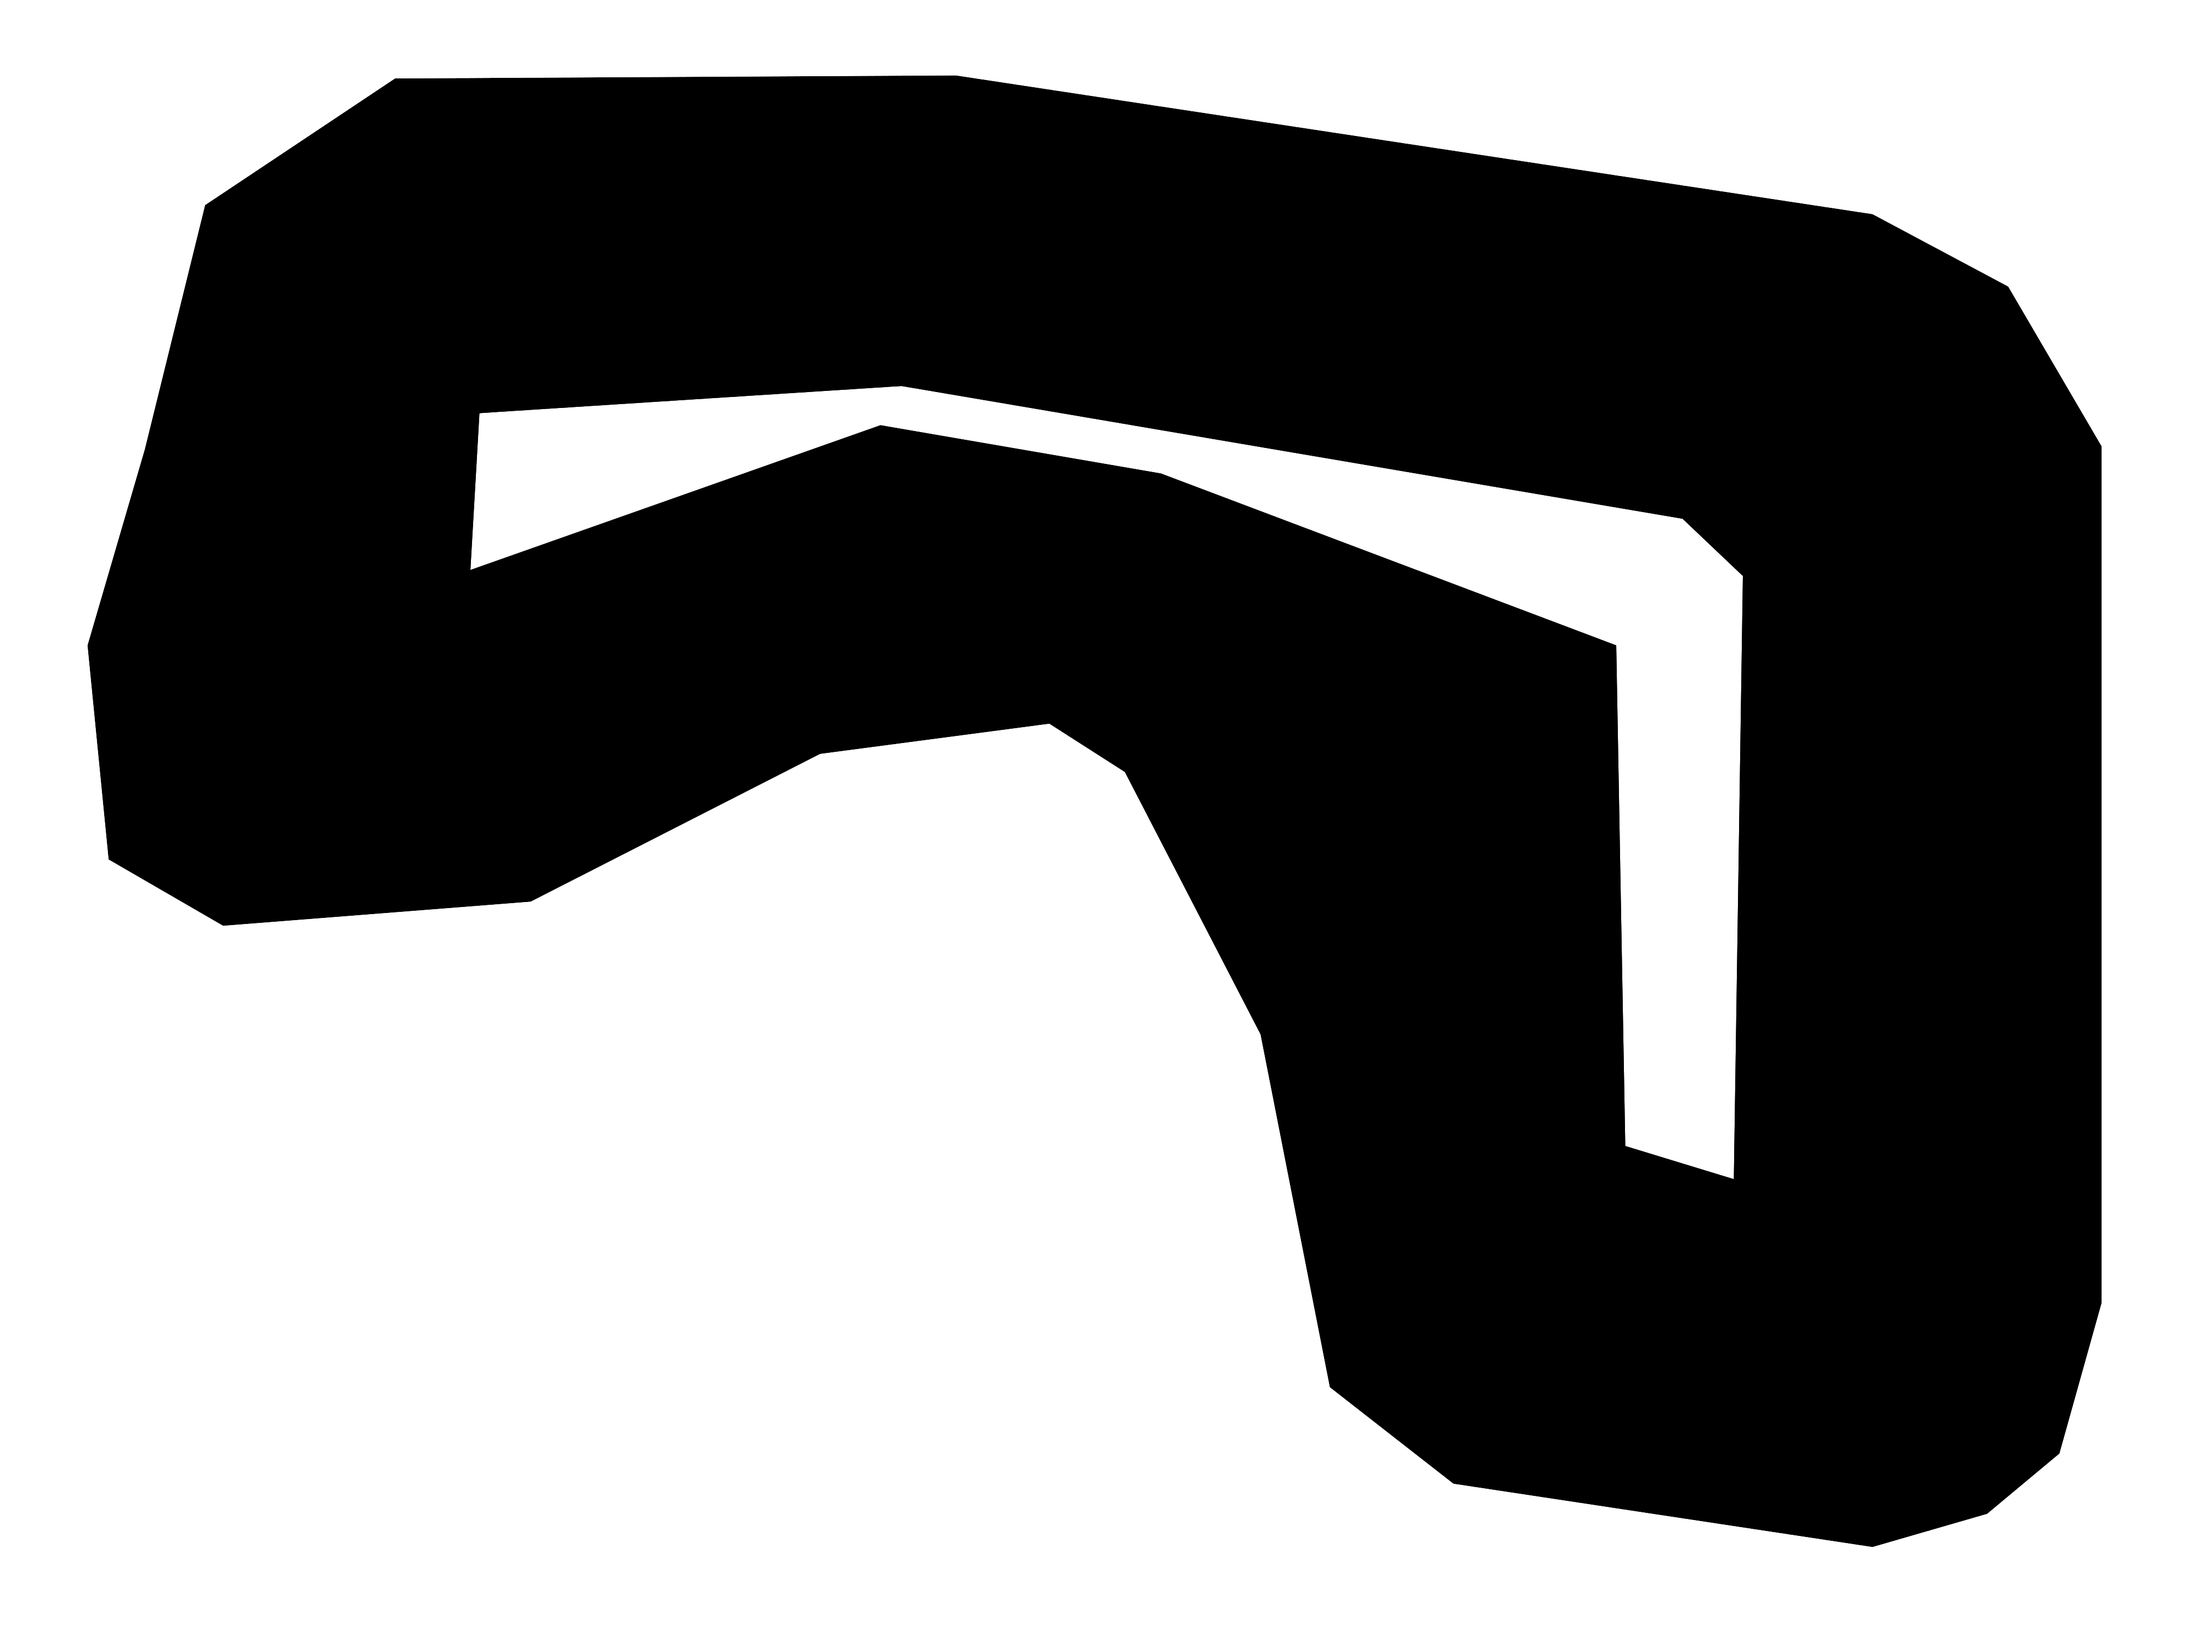
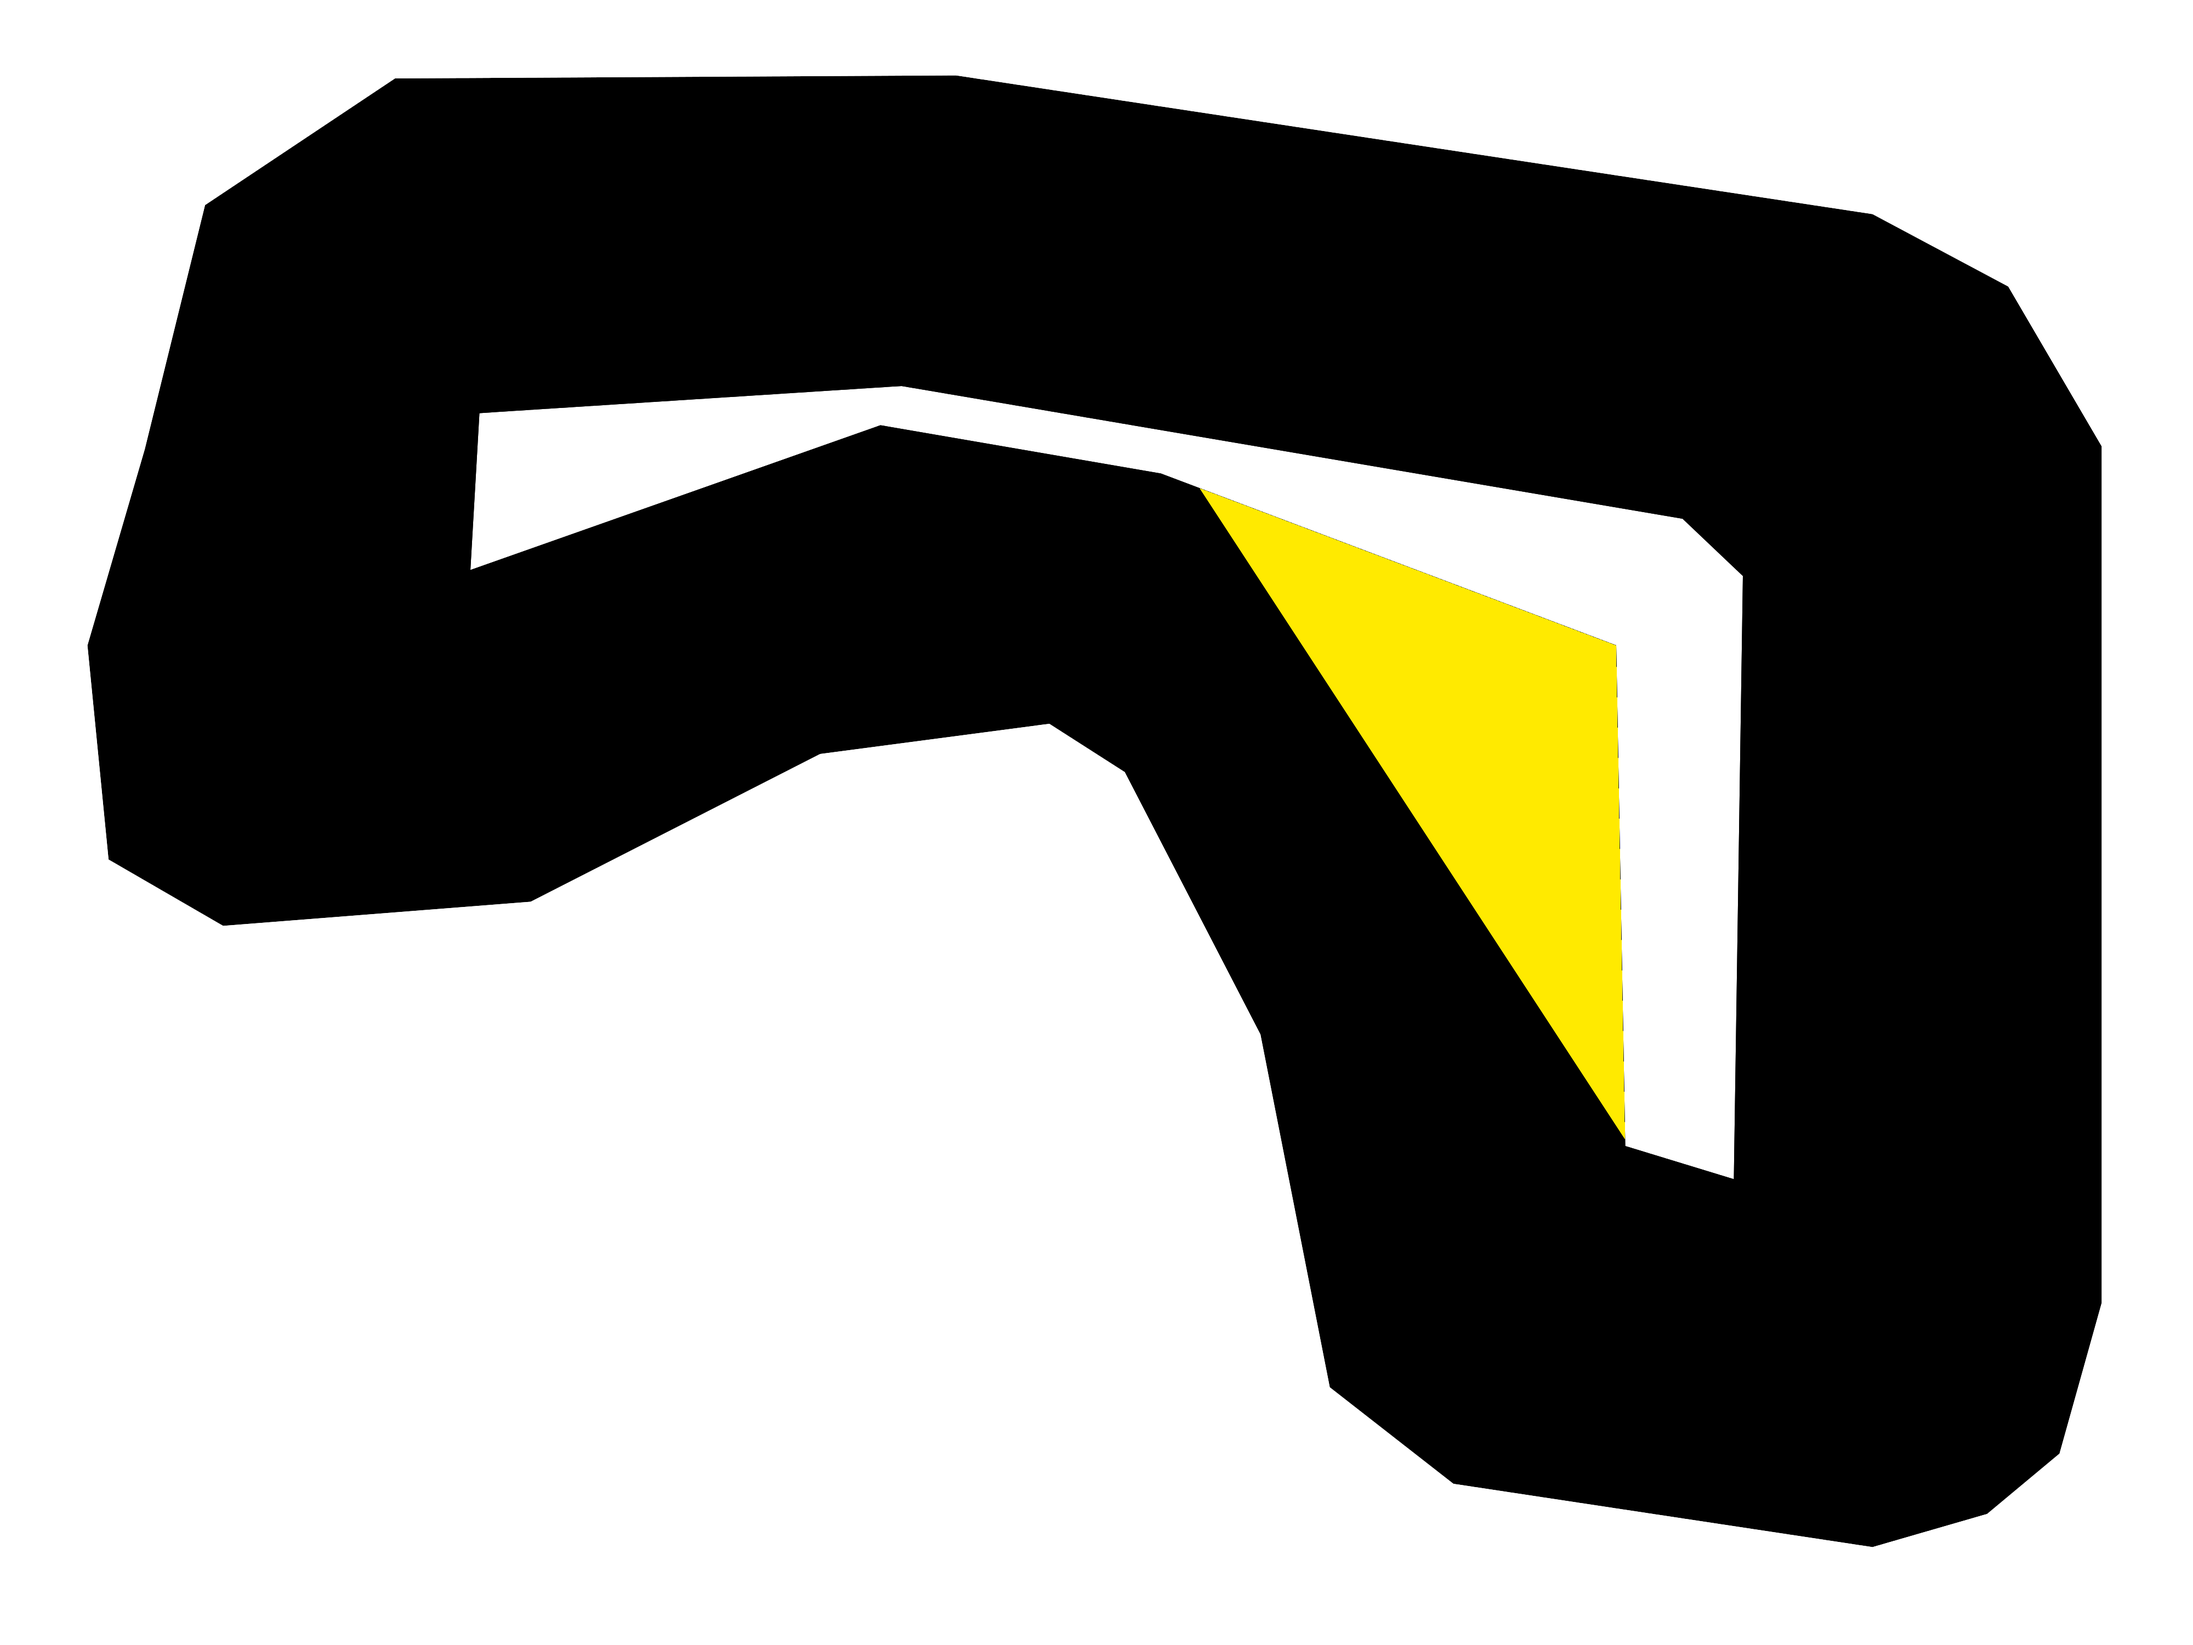
Added sand field

Changed region(s): [[0.5625, 0.31, 0.75, 0.682], [0.5312, 0.279, 0.5625, 0.31]]

diff --git a/physics/BeginContacts.cpp b/physics/BeginContacts.cpp
@@ -74,31 +74,31 @@ void ControlBeginContacts(b2Fixture* fixtureA, b2Fixture* fixtureB){
 
 
 void BeginWheelAndWheel(b2Fixture* fixtureA, b2Fixture* fixtureB){
-    printf("Begin Wheel And Wheel\n"); 
+//    printf("Begin Wheel And Wheel\n"); 
 }
 
 void BeginCarBodyAndCarBody(b2Fixture* fixtureA, b2Fixture* fixtureB){
-    printf("Begin CarBody And CarBody\n"); 
+//   printf("Begin CarBody And CarBody\n"); 
 }
 
 void BeginCarBodyAndWheel(b2Fixture* fixtureA, b2Fixture* fixtureB){
-    printf("Begin CarBody And CarBody\n"); 
+//    printf("Begin CarBody And CarBody\n"); 
 }
 
 void BeginCarBodyAndWall(b2Fixture* fixtureA, b2Fixture* fixtureB){
-    printf("Begin CarBody And Wall\n"); 
+//    printf("Begin CarBody And Wall\n"); 
 }
 
 void BeginWheelAndWall(b2Fixture* fixtureA, b2Fixture* fixtureB){
-    printf("Begin Wheel And Wall\n"); 
+//    printf("Begin Wheel And Wall\n"); 
 }
 
 void BeginWheelAndSandField(b2Fixture* fixtureA, b2Fixture* fixtureB){
-    fixtureA->GetBody()->SetLinearDamping(30.0f);
-    fixtureA->GetBody()->SetAngularDamping(30.0f);
-    printf("Begin Wheel And SandField\n"); 
+    fixtureA->GetBody()->SetLinearDamping(25.0f);
+    fixtureA->GetBody()->SetAngularDamping(0.1f);
+//    printf("Begin Wheel And SandField\n"); 
 }
 
 void BeginCarBodyAndSandField(b2Fixture* fixtureA, b2Fixture* fixtureB){
-    printf("Begin CarBody And SandField\n"); 
+//    printf("Begin CarBody And SandField\n"); 
 }

diff --git a/physics/EndContacts.cpp b/physics/EndContacts.cpp
@@ -73,31 +73,31 @@ void ControlEndContacts(b2Fixture* fixtureA, b2Fixture* fixtureB){
 
 
 void EndWheelAndWheel(b2Fixture* fixtureA, b2Fixture* fixtureB){
-    printf("End Wheel And Wheel\n"); 
+//    printf("End Wheel And Wheel\n"); 
 }
 
 void EndCarBodyAndCarBody(b2Fixture* fixtureA, b2Fixture* fixtureB){
-    printf("End CarBody And CarBody\n"); 
+//    printf("End CarBody And CarBody\n"); 
 }
 
 void EndCarBodyAndWheel(b2Fixture* fixtureA, b2Fixture* fixtureB){
-    printf("End CarBody And CarBody\n"); 
+//    printf("End CarBody And CarBody\n"); 
 }
 
 void EndCarBodyAndWall(b2Fixture* fixtureA, b2Fixture* fixtureB){
-    printf("End CarBody And Wall\n"); 
+//    printf("End CarBody And Wall\n"); 
 }
 
 void EndWheelAndWall(b2Fixture* fixtureA, b2Fixture* fixtureB){
-    printf("End Wheel And Wall\n"); 
+//    printf("End Wheel And Wall\n"); 
 }
 
 void EndWheelAndSandField(b2Fixture* fixtureA, b2Fixture* fixtureB){
-    printf("End Wheel And SandField\n"); 
+//    printf("End Wheel And SandField\n"); 
     fixtureA->GetBody()->SetLinearDamping(1.0f);
     fixtureA->GetBody()->SetAngularDamping(5.0f);
 }
 
 void EndCarBodyAndSandField(b2Fixture* fixtureA, b2Fixture* fixtureB){
-    printf("End CarBody And SandField\n"); 
+//    printf("End CarBody And SandField\n"); 
 }

diff --git a/physics/Track.cpp b/physics/Track.cpp
@@ -49,7 +49,7 @@ int GetNextVectorFromFile(std::vector<T> *ret,std::ifstream *myfile, int size){
                 if(from_string<T>(f, vec[i], std::dec))
                 {
                     ret->push_back(f-(float)5.5);
-                    std::cout << f << std::endl;
+                //    std::cout << f << std::endl;
                 }
                 else
                 {
@@ -81,10 +81,11 @@ Track::Track(b2World *m_world, const char* track_path){
     
     int count = 3;
     while (! GetNextVectorFromFile<float>(&vec,&myfile, count * 2)){
+      printf("\n\n\n\nSandfield Created!!\n!\n");
         b2Vec2 *vertices = (b2Vec2*) malloc(count * sizeof(b2Vec2));
         for (int i = 0; i < count; i++){
-            vertices[i].Set(vec[2*i],vec[2*i+1]);
             printf("==%f %f\n", vec[2*i], vec[2*i+1]);
+            vertices[i].Set(vec[2*i],vec[2*i+1]);
         }
         sandfields_list.push_back(new SandField(vertices,count,this));
     }

diff --git a/physics/ContactListener.cpp b/physics/ContactListener.cpp
@@ -10,13 +10,13 @@ Listener::Listener(){
 void Listener::BeginContact(b2Contact* contact){
   b2Fixture* fixtureA = contact->GetFixtureA();
   b2Fixture* fixtureB = contact->GetFixtureB();
-  //  ControlBeginContacts(fixtureA, fixtureB);
+  ControlBeginContacts(fixtureA, fixtureB);
 }
 
 void Listener::EndContact(b2Contact* contact) {
   b2Fixture* fixtureA = contact->GetFixtureA();
   b2Fixture* fixtureB = contact->GetFixtureB();
-  //  ControlEndContacts(fixtureA, fixtureB);
+  ControlEndContacts(fixtureA, fixtureB);
 }
 
 void Listener::PostSolve(const b2Contact* contact, const b2ContactImpulse* impulse){

diff --git a/physics/Track.h b/physics/Track.h
@@ -50,6 +50,7 @@ class SandField{
   public:
     ObjData data;
     SandField(b2Vec2 *vertices, int size, Track* input_track){
+        printf("Constructor sandfield begin!");
         track = input_track;
         b2PolygonShape polygon;
         polygon.Set(vertices, size);
@@ -64,6 +65,7 @@ class SandField{
         sd.isSensor = true;
 
         track->sensors_list.push_back(track->sandfield->CreateFixture(&sd));
+        printf("Constructor sandfield done!");
     }
   private:
     Track* track;

diff --git a/physics/Car.cpp b/physics/Car.cpp
@@ -162,14 +162,6 @@ Wheel::Wheel(Car *wheel_car,
 }
 
 void Wheel::Handling(){
-  breaking = car->breaking;
-
-  if (breaking){
-    body->SetLinearDamping(15.5f);
-  } else {
-    body->SetLinearDamping(5.5f);
-  }
-
   b2Vec2 velocity = body->GetLinearVelocityFromLocalPoint(b2Vec2(0.0f,0.0f));
   float32 angle = body->GetAngle();
   b2Vec2 body_axis = b2Vec2(10*cos(angle),10*sin(angle));
